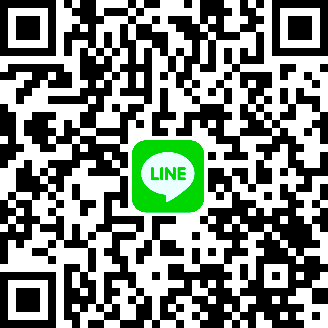
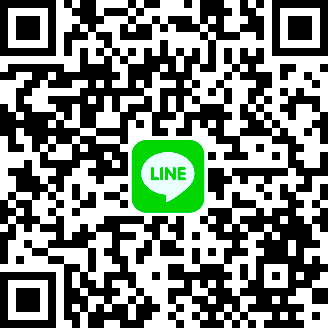
Add files via upload

diff --git a/index.html b/index.html
@@ -164,7 +164,7 @@
           <div id="fillData" class="col-sm-12 text-center fill-data">
             <h4 class="d-inline-block">填寫資料</h4>
             <p class="col-sm-6 offset-sm-3 col-md-10 offset-md-1 col-lg-4 offset-lg-4 text-left">點擊並按照範例填寫報名資料後，請傳送到我的<a
-                href="https://line.me/ti/p/lY8KSWAJdW" target="new">LINE</a>或<a
+                href="https://line.me/ti/p/_XGnDnULfQ" target="new">LINE</a>或<a
                 href="mailto:wujihlk@gmail.com?Subject=預約報名">電子信箱</a>。
             </p>
             <div data-aos="fade-up" class="col-sm-6 offset-sm-3 col-md-10 offset-md-1 col-lg-4 offset-lg-4">
@@ -426,12 +426,12 @@
         <h3 class="d-inline-block">與我聯絡</h3>
         <section>
           <p>
-            <a href="https://line.me/ti/p/lY8KSWAJdW" target="new"><img class="qrcode-line rounded"
+            <a href="https://line.me/ti/p/_XGnDnULfQ" target="new"><img class="qrcode-line rounded"
                 src="images/qrcode_line.png" alt="LINE QR Code"></a><br>
-            <strong>LINE ID: </strong>ASON0930<br>
-            <a href="https://line.me/ti/p/lY8KSWAJdW" target="new">加入我的LINE</a><br>
+            <strong>LINE ID: </strong>WUJIHLK<br>
+            <a href="https://line.me/ti/p/_XGnDnULfQ" target="new">加入我的LINE</a><br>
             <!-- <strong>Email: </strong><a href="mailto:wujihlk@gmail.com?Subject=預約報名">wujihlk@gmail.com</a> -->
-            <strong>Email: </strong><a href="mailto:wujihlk@gmail.com?Subject=預約報名">wujihlk@gmail.com</a>
+            <strong>Email: </strong><a href="mailto:wujihlk@gmail.com">wujihlk@gmail.com</a>
           </p>
         </section>
         <section>
@@ -445,7 +445,7 @@
         <ul class="col-sm-6 offset-sm-3 col-md-10 offset-md-1 col-lg-2 offset-lg-5 text-left note">
           <li><span>本宮僅開放「<a href="#serviceItem">靈乩辦事</a>」之相關服務項目。</span></li>
           <li><span>防疫期間僅提供「遠距」<a href="#serviceItem">通靈辦事</a>服務。</span></li>
-          <li><span>全程使用<a href="https://line.me/ti/p/lY8KSWAJdW">LINE</a>或<a
+          <li><span>全程使用<a href="https://line.me/ti/p/_XGnDnULfQ">LINE</a>或<a
                 href="mailto:wujihlk@gmail.com?Subject=預約報名">電子信箱</a>連絡相關事宜，必要時可進行視訊通話。</span></li>
           <li><span>上呈神尊的個人資料，於儀式結束後隨金紙火化，不做其他用途。</span></li>
           <li><span>防止詐騙，本宮僅使用<a href="https://p.ecpay.com.tw/E7F73A1
